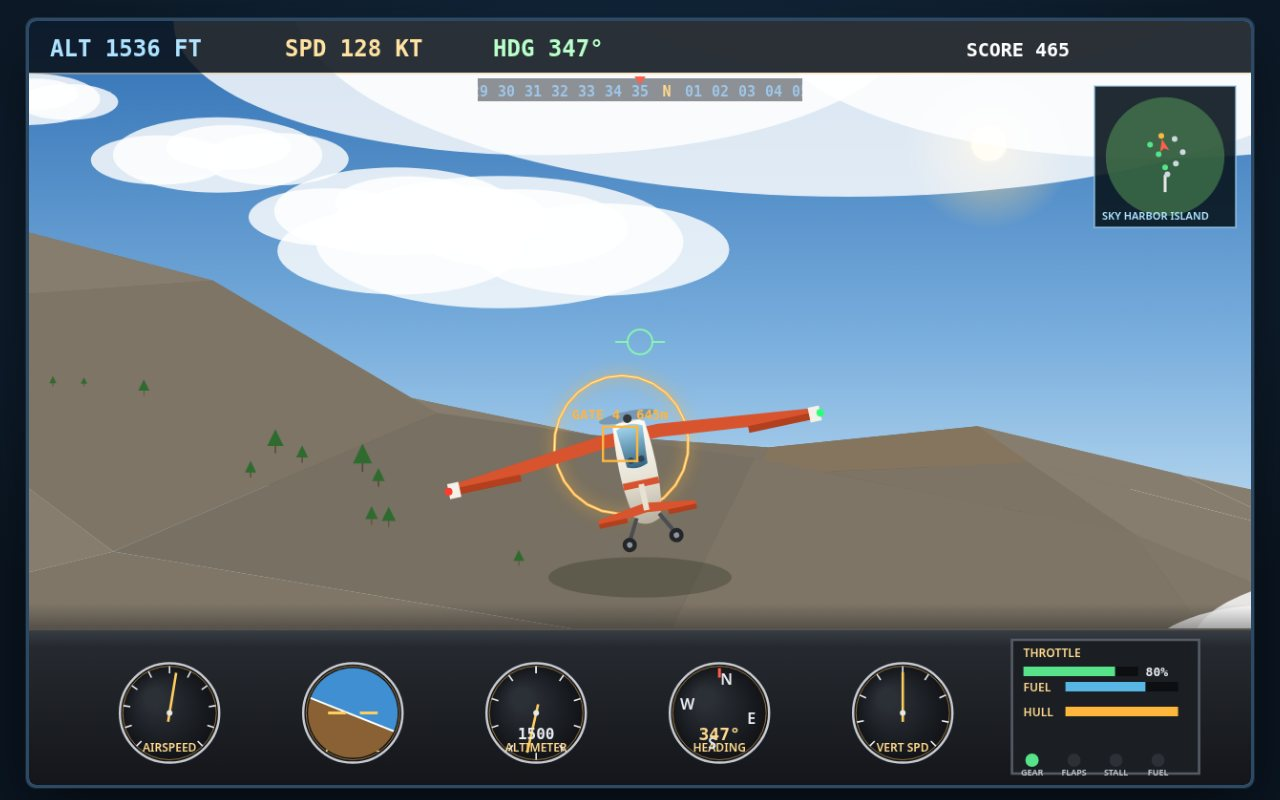
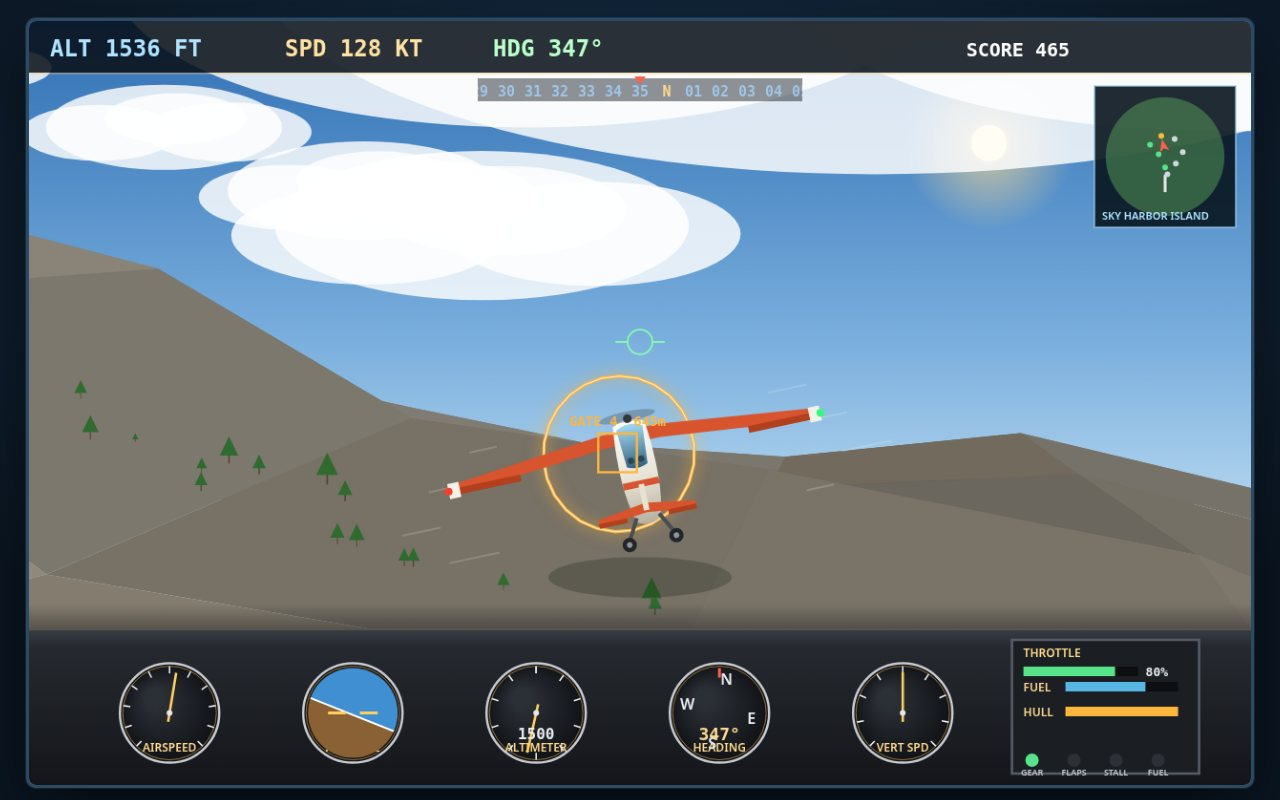
v2: fog, sun shading, speed feel, flying title attract

diff --git a/game/src/render3d.js b/game/src/render3d.js
@@ -16,6 +16,8 @@ export function makeCamera(plane, chase) {
     z: plane.z - fz * back,
     heading: plane.heading, pitch: plane.pitch, roll: plane.roll,
     fx, fy, fz,
+    // the lens opens up as speed builds, so fast flight feels fast
+    fovScale: 1 + Math.max(0, Math.min(0.30, (plane.speed - 38) / 220)),
   };
 }
 
@@ -42,7 +44,7 @@ export function project(cam, w, h, x, y, z, out) {
   cx = rx;
   cy = ry;
   if (cz >= -2) return null;
-  const f = (h * 0.92) / -cz;
+  const f = (h * 0.92 * (cam.fovScale || 1)) / -cz;
   out.x = w / 2 + cx * f;
   out.y = h * 0.46 - cy * f;
   out.s = f;
@@ -92,9 +94,27 @@ export function drawSky(ctx, w, h, cam, timeOfDay) {
   ctx.fill();
 }
 
-export function drawTerrain(ctx, w, h, cam) {
+function mixColour(colour, other, f) {
+  let r; let g; let b;
+  if (colour.startsWith('#')) {
+    const a = parseInt(colour.slice(1), 16);
+    r = (a >> 16) & 255; g = (a >> 8) & 255; b = a & 255;
+  } else {
+    const m = colour.match(/\d+(\.\d+)?/g);
+    r = +m[0]; g = +m[1]; b = +m[2];
+  }
+  return `rgb(${Math.round(r + (other[0] - r) * f)},${Math.round(g + (other[1] - g) * f)},${Math.round(b + (other[2] - b) * f)})`;
+}
+
+function quadHash(x, z) {
+  const s = Math.sin(x * 12.9898 + z * 78.233) * 43758.5453;
+  return s - Math.floor(s);
+}
+
+export function drawTerrain(ctx, w, h, cam, timeOfDay = 'day') {
   const RANGE = 3000;
   const STEP = 120;
+  const fogRGB = timeOfDay === 'sunset' ? [240, 178, 138] : [178, 205, 228];
   const cx0 = Math.round(cam.x / STEP) * STEP;
   const cz0 = Math.round(cam.z / STEP) * STEP;
   const quads = [];
@@ -127,9 +147,15 @@ export function drawTerrain(ctx, w, h, cam) {
     const hC = groundHeight(q.x + STEP / 2, q.z + STEP / 2);
     const slope = Math.abs(groundHeight(q.x + STEP, q.z) - groundHeight(q.x, q.z)) / STEP
       + Math.abs(groundHeight(q.x, q.z + STEP) - groundHeight(q.x, q.z)) / STEP;
-    const shade = Math.max(0.72, Math.min(1.08, 1 - slope * 0.35 + (hSum / 4) * 0.0004));
+    // directional sun shading: faces turned toward the low sun catch more light
+    const sunSlope = (groundHeight(q.x + STEP, q.z) - groundHeight(q.x - STEP, q.z)) / (STEP * 2);
+    const jitter = 0.94 + quadHash(q.x, q.z) * 0.12;
+    const shade = Math.max(0.62, Math.min(1.14, (1 - slope * 0.30 - sunSlope * 0.55 + (hSum / 4) * 0.0004) * jitter));
     ctx.globalAlpha = 1;
-    poly(ctx, pt, shadeColour(terrainColour(hC, slope, q.x, q.z), shade));
+    const base = shadeColour(terrainColour(hC, slope, q.x, q.z), shade);
+    // aerial perspective: distance melts into the horizon haze
+    const fogF = Math.min(0.62, Math.sqrt(q.d2) / 3400 * 0.72);
+    poly(ctx, pt, mixColour(base, fogRGB, fogF));
     // sea sparkle: a lighter skim on open water far away
     if (hC < 2 && q.d2 > 900000) {
       ctx.fillStyle = 'rgba(255,255,255,0.05)';

diff --git a/game/src/main.js b/game/src/main.js
@@ -47,8 +47,13 @@ function startMission(id) {
 
 function render(t) {
   const cam = makeCamera(plane, true);
+  if (plane.stall) {
+    // buffet: the whole airframe shudders as the wing lets go
+    cam.x += Math.sin(t * 43) * 0.55;
+    cam.y += Math.cos(t * 37) * 0.45;
+  }
   drawSky(ctx, W, H, cam, timeOfDay);
-  drawTerrain(ctx, W, H, cam);
+  drawTerrain(ctx, W, H, cam, timeOfDay);
   drawScenery(ctx, W, H, cam, trees, town);
   drawRunway(ctx, W, H, cam, t);
   RING_COURSE.forEach((ring, i) => drawRing(ctx, W, H, cam, ring, ringState(state, i), t));
@@ -69,9 +74,14 @@ function frame(now) {
   input.poll();
 
   if (screen === 'title') {
-    // a slow orbiting attract view behind the title
-    plane.heading += dt * 0.05;
-    plane.y = 300 + Math.sin(elapsed * 0.3) * 24;
+    // the attract view actually flies: forward over the island on a wide,
+    // gentle circuit, high enough to clear the peaks
+    plane.heading += dt * 0.055;
+    plane.x += Math.sin(plane.heading) * 55 * dt;
+    plane.z += -Math.cos(plane.heading) * 55 * dt;
+    plane.y = 560 + Math.sin(elapsed * 0.3) * 30;
+    plane.roll = -0.32;
+    plane.speed = 55;
     render(elapsed);
     drawBanner(ctx, W, H, 'SKY HARBOR RUN', [
       'An original island flight game — gates, landings and one careful fuel gauge.',
@@ -80,7 +90,7 @@ function frame(now) {
       'Arrows steer · mouse drags the stick · Shift/Ctrl throttle · G gear · F flaps · R restart',
     ]);
     if (input.missionPick) startMission(MISSIONS[input.missionPick - 1].id);
-    else if (input.startRequested) startMission('rings');
+    else if (input.startRequested || input.pitch !== 0 || input.roll !== 0) startMission('rings');
   } else if (screen === 'flying') {
     if (input.pause) paused = !paused;
     if (input.restart) startMission(state.missionId);

diff --git a/game/src/aircraft.js b/game/src/aircraft.js
@@ -14,16 +14,20 @@ export function drawAircraft(ctx, w, h, plane, input, t, groundBelow) {
   ctx.rotate(bank * 0.55);
   ctx.scale(scale, scale);
 
-  // wing shadow of speed: faint motion streaks at high speed
-  if (plane.speed > 78) {
-    ctx.strokeStyle = 'rgba(255,255,255,0.25)';
+  // slipstream streaks that stretch with speed, so the air itself shows motion
+  if (plane.speed > 46) {
+    const stretch = Math.min(1, (plane.speed - 46) / 55);
+    ctx.strokeStyle = `rgba(255,255,255,${0.10 + stretch * 0.22})`;
     ctx.lineWidth = 2;
-    for (const [sx, sy, len] of [[-190, -30, 60], [185, -24, 52], [-160, 44, 44], [168, 50, 40]]) {
+    const rows = [[-190, -30], [185, -24], [-160, 44], [168, 50], [-215, 8], [212, 14], [-140, -64], [150, -58]];
+    rows.forEach(([sx, sy], i) => {
+      const len = (34 + (i % 3) * 14) * (0.5 + stretch);
+      const wob = Math.sin(t * 31 + i * 1.7) * 2;
       ctx.beginPath();
-      ctx.moveTo(sx, sy);
-      ctx.lineTo(sx + (sx < 0 ? -len : len), sy);
+      ctx.moveTo(sx, sy + wob);
+      ctx.lineTo(sx + (sx < 0 ? -len : len), sy + wob);
       ctx.stroke();
-    }
+    });
   }
 
   // main wing (seen from behind-above), ailerons deflect with roll input

diff --git a/game/src/terrain.js b/game/src/terrain.js
@@ -77,7 +77,7 @@ export function buildTrees() {
     seed = (seed * 1103515245 + 12345) & 0x7fffffff;
     return seed / 0x7fffffff;
   };
-  for (let i = 0; i < 420; i++) {
+  for (let i = 0; i < 640; i++) {
     const a = rnd() * Math.PI * 2;
     const d = 250 + rnd() * 3400;
     const x = Math.cos(a) * d;
